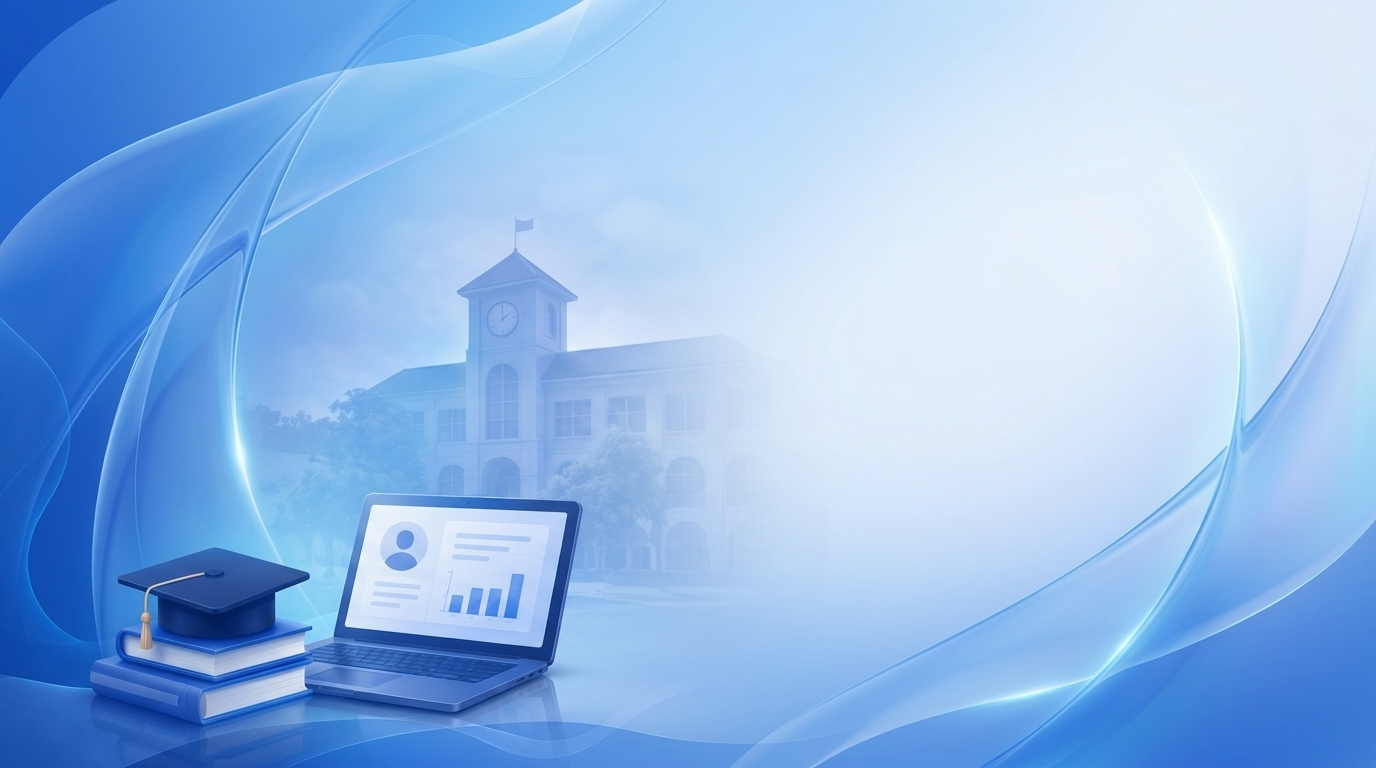
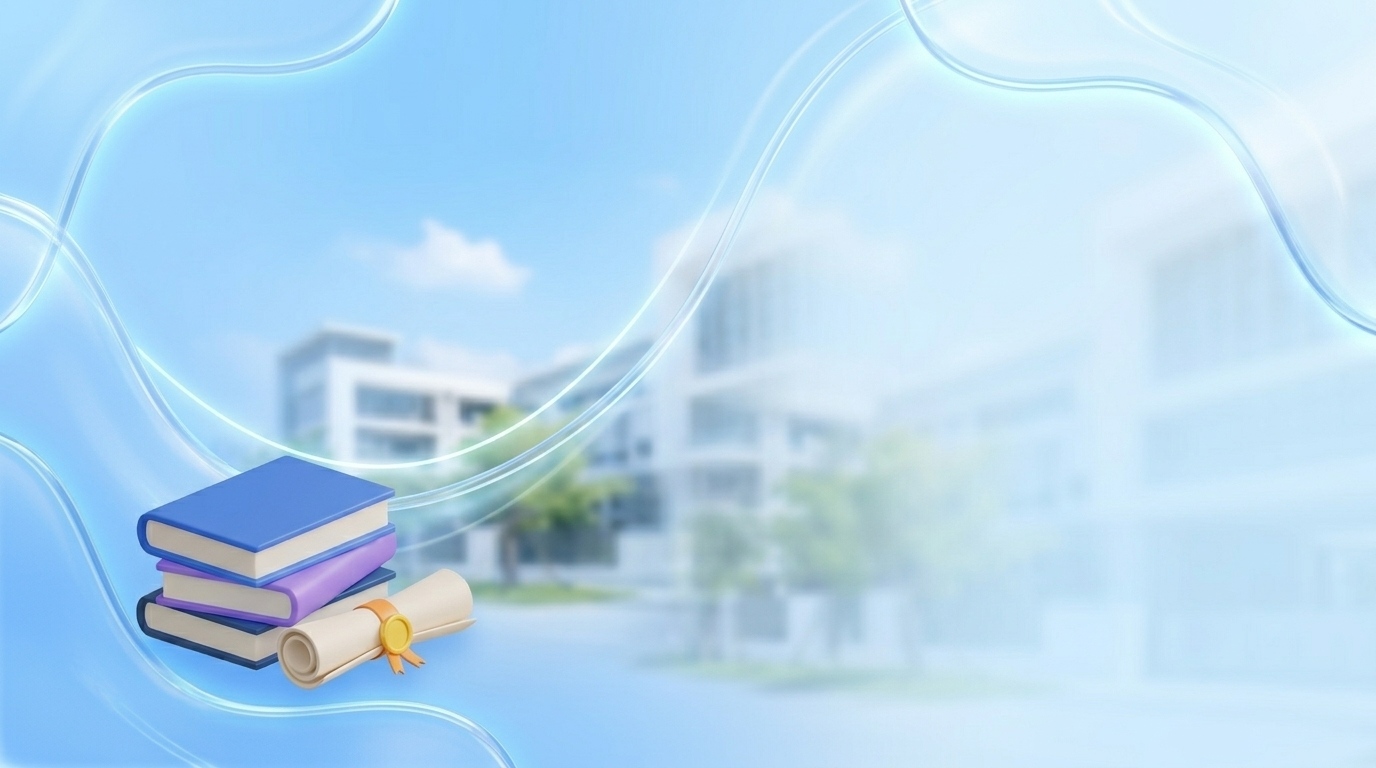
Add files via upload

diff --git a/index.html b/index.html
@@ -24,8 +24,8 @@
   <script src="https://cdn.jsdelivr.net/npm/xlsx@0.18.5/dist/xlsx.full.min.js"></script>
 
   <!-- Application Stylesheets (with cache busting) -->
-  <link rel="stylesheet" href="css/main.css?v=3.2.0">
-  <link rel="stylesheet" href="css/components.css?v=3.2.0">
+  <link rel="stylesheet" href="css/main.css?v=3.3.0">
+  <link rel="stylesheet" href="css/components.css?v=3.3.0">
 </head>
 <body>
 
@@ -38,46 +38,64 @@
   <!-- =========================================================================
        1. LOGIN VIEW — Concept B: Bright Royal Sky & Daylight Ethereal
        ========================================================================= -->
-  <div id="view-login" class="login-view-wrapper" style="display: none; background-image: url('login-bg.jpg?v=3.1.0'); background-size: cover; background-position: center center; background-repeat: no-repeat;">
+  <div id="view-login" class="login-view-wrapper" style="display: none; background-image: url('login-bg.jpg?v=3.3.0'); background-size: cover; background-position: center center; background-repeat: no-repeat;">
 
     <!-- Atmospheric Overlay & Sweep Light -->
     <div class="login-bg-mesh">
       <div class="light-beam-sweep"></div>
     </div>
 
-    <!-- Left Hero Brand Panel (Concept B) -->
+    <!-- Left Hero Brand Panel with Massive Logo Emblem -->
     <div class="login-hero-left">
       
-      <!-- Brand Titles in Deep Royal Navy -->
-      <div class="brand-title-group-concept-b">
-        <h1 class="brand-title-main">ระบบติดตามแก้ไขผลการเรียน</h1>
-        <h2 class="brand-school-name">โรงเรียนดงรักวิทยา</h2>
+      <!-- Brand Emblem & Title Header Row -->
+      <div class="brand-hero-header-row">
+        <!-- Floating School Emblem with Glowing Cyan Halo Ring (Massive Size) -->
+        <div class="brand-emblem-glow-wrap">
+          <div class="emblem-halo-ring">
+            <img src="logo.png?v=3.3.0" alt="โลโก้โรงเรียนดงรักวิทยา" class="brand-logo-emblem-b">
+          </div>
+        </div>
+
+        <!-- Brand Titles in Deep Royal Navy -->
+        <div class="brand-title-group-concept-b">
+          <h1 class="brand-title-main">ระบบติดตามแก้ไขผลการเรียน</h1>
+          <h2 class="brand-school-name">โรงเรียนดงรักวิทยา</h2>
+          <div class="brand-tagline-pill">
+            <i class="fas fa-sparkles text-amber-400"></i> ติดตามผลการเรียน แก้ไขให้ถูกต้อง เพื่ออนาคตทางการศึกษา
+          </div>
+        </div>
       </div>
 
-      <!-- Feature Badges Grid (4 Badges with Checkmarks) -->
+      <!-- Feature Badges Grid (4 Glassmorphic Cards) -->
       <div class="brand-badges-grid-concept-b">
         <div class="feature-badge-item">
-          <i class="fas fa-check-circle"></i>
-          <span>ติดตามผลการเรียน</span>
+          <div class="badge-icon-wrap"><i class="fas fa-chart-line"></i></div>
+          <div class="badge-text-wrap">
+            <strong>ติดตามผลการเรียน</strong>
+            <span>ตรวจสอบผลการเรียน สะดวก รวดเร็ว</span>
+          </div>
         </div>
         <div class="feature-badge-item">
-          <i class="fas fa-check-circle"></i>
-          <span>ยื่นขอแก้ไขผลการเรียน</span>
+          <div class="badge-icon-wrap"><i class="fas fa-edit"></i></div>
+          <div class="badge-text-wrap">
+            <strong>ยื่นขอแก้ผลการเรียน</strong>
+            <span>ยื่นคำร้อง 0 / ร / มส ออนไลน์</span>
+          </div>
         </div>
         <div class="feature-badge-item">
-          <i class="fas fa-check-circle"></i>
-          <span>แจ้งเตือนสถานะคำร้อง</span>
+          <div class="badge-icon-wrap"><i class="fas fa-bell"></i></div>
+          <div class="badge-text-wrap">
+            <strong>แจ้งเตือนสถานะ</strong>
+            <span>อัปเดตความคืบหน้าแบบเรียลไทม์</span>
+          </div>
         </div>
         <div class="feature-badge-item">
-          <i class="fas fa-check-circle"></i>
-          <span>ใช้งานสะดวก ปลอดภัย</span>
-        </div>
-      </div>
-
-      <!-- Floating School Emblem with Glowing Cyan Halo Ring -->
-      <div class="brand-emblem-glow-wrap">
-        <div class="emblem-halo-ring">
-          <img src="logo.png?v=3.1.0" alt="โลโก้โรงเรียนดงรักวิทยา" class="brand-logo-emblem-b">
+          <div class="badge-icon-wrap"><i class="fas fa-shield-alt"></i></div>
+          <div class="badge-text-wrap">
+            <strong>ความปลอดภัย 100%</strong>
+            <span>รักษาความลับข้อมูลนักเรียนทุกคน</span>
+          </div>
         </div>
       </div>
 
@@ -1170,19 +1188,19 @@
   <div id="toast-container" class="toast-container"></div>
 
   <!-- Application Scripts (Loaded with Cache Busting) -->
-  <script src="js/config.js?v=3.2.0"></script>
-  <script src="js/firebase-service.js?v=3.2.0"></script>
-  <script src="js/cloudinary-service.js?v=3.2.0"></script>
-  <script src="js/auth.js?v=3.2.0"></script>
-  <script src="js/dashboard.js?v=3.2.0"></script>
-  <script src="js/workflow.js?v=3.2.0"></script>
-  <script src="js/records.js?v=3.2.0"></script>
-  <script src="js/audit.js?v=3.2.0"></script>
-  <script src="js/teachers.js?v=3.2.0"></script>
-  <script src="js/students.js?v=3.2.0"></script>
-  <script src="js/users.js?v=3.2.0"></script>
-  <script src="js/export-engine.js?v=3.2.0"></script>
-  <script src="js/app.js?v=3.2.0"></script>
+  <script src="js/config.js?v=3.3.0"></script>
+  <script src="js/firebase-service.js?v=3.3.0"></script>
+  <script src="js/cloudinary-service.js?v=3.3.0"></script>
+  <script src="js/auth.js?v=3.3.0"></script>
+  <script src="js/dashboard.js?v=3.3.0"></script>
+  <script src="js/workflow.js?v=3.3.0"></script>
+  <script src="js/records.js?v=3.3.0"></script>
+  <script src="js/audit.js?v=3.3.0"></script>
+  <script src="js/teachers.js?v=3.3.0"></script>
+  <script src="js/students.js?v=3.3.0"></script>
+  <script src="js/users.js?v=3.3.0"></script>
+  <script src="js/export-engine.js?v=3.3.0"></script>
+  <script src="js/app.js?v=3.3.0"></script>
 
   <script>
     // Tab role switcher helper in login view

diff --git a/css/main.css b/css/main.css
@@ -619,107 +619,163 @@ a:hover { color: var(--primary-dark); }
   100% { left: 220%; opacity: 0; }
 }
 
-/* --- Left Hero Brand Panel (Concept B) --- */
+/* --- Left Hero Brand Panel (Massive Logo & Academic Elegance) --- */
 .login-hero-left {
   flex: 1;
-  max-width: 480px;
+  max-width: 580px;
   position: relative;
   z-index: 10;
-  padding-right: 20px;
-  margin-top: -30px; /* Aligns neatly above 3D books & diploma */
+  padding-right: 30px;
+  margin-top: -20px;
+}
+
+.brand-hero-header-row {
+  display: flex;
+  align-items: center;
+  gap: 22px;
+  margin-bottom: 16px;
+}
+
+/* Massive Glowing 3D Emblem Halo Ring */
+.brand-emblem-glow-wrap {
+  display: flex;
+  align-items: center;
+  justify-content: center;
+  flex-shrink: 0;
+}
+
+.emblem-halo-ring {
+  position: relative;
+  width: 145px;
+  height: 145px;
+  border-radius: 50%;
+  display: flex;
+  align-items: center;
+  justify-content: center;
+  background: radial-gradient(circle, rgba(255, 255, 255, 0.98) 0%, rgba(224, 242, 254, 0.85) 60%, rgba(56, 189, 248, 0.35) 100%);
+  box-shadow: 
+    0 0 45px rgba(56, 189, 248, 0.6),
+    0 12px 28px rgba(14, 60, 140, 0.18),
+    inset 0 0 20px rgba(255, 255, 255, 1);
+  border: 3px solid rgba(255, 255, 255, 1);
+  animation: floatEmblem3D 4s ease-in-out infinite alternate;
+}
+
+@keyframes floatEmblem3D {
+  0% { transform: translateY(0) scale(1); }
+  100% { transform: translateY(-6px) scale(1.02); }
+}
+
+.brand-logo-emblem-b {
+  width: 120px;
+  height: 120px;
+  object-fit: contain;
+  filter: drop-shadow(0 6px 14px rgba(0, 0, 0, 0.15));
 }
 
 .brand-title-group-concept-b {
-  margin-bottom: 12px;
+  display: flex;
+  flex-direction: column;
 }
 
 .brand-title-main {
-  font-size: 26px;
+  font-size: 28px;
   font-weight: 800;
-  color: #0b2565;
+  color: #082366;
   letter-spacing: -0.5px;
   margin: 0;
   line-height: 1.2;
-  text-shadow: 0 1px 4px rgba(255, 255, 255, 0.9);
+  text-shadow: 0 2px 10px rgba(255, 255, 255, 0.95);
 }
 
 .brand-school-name {
-  font-size: 22px;
+  font-size: 23px;
   font-weight: 800;
   color: #1d4ed8;
-  margin: 4px 0 0 0;
+  margin: 4px 0 6px 0;
   letter-spacing: -0.3px;
-  text-shadow: 0 1px 3px rgba(255, 255, 255, 0.8);
+  text-shadow: 0 1px 4px rgba(255, 255, 255, 0.85);
 }
 
-/* 4 Feature Badges Grid */
+.brand-tagline-pill {
+  display: inline-flex;
+  align-items: center;
+  gap: 6px;
+  font-size: 12px;
+  font-weight: 600;
+  color: #1e3a8a;
+  background: rgba(255, 255, 255, 0.82);
+  backdrop-filter: blur(8px);
+  padding: 4px 12px;
+  border-radius: 20px;
+  border: 1px solid rgba(255, 255, 255, 0.95);
+  box-shadow: 0 2px 8px rgba(37, 99, 235, 0.08);
+}
+
+/* 4 Feature Glass Badges (2x2 Grid) */
 .brand-badges-grid-concept-b {
-  display: flex;
-  flex-wrap: wrap;
-  gap: 8px;
-  margin: 14px 0 18px 0;
-  max-width: 440px;
+  display: grid;
+  grid-template-columns: 1fr 1fr;
+  gap: 10px;
+  margin-top: 12px;
+  max-width: 520px;
 }
 
 .feature-badge-item {
   display: flex;
   align-items: center;
-  gap: 7px;
-  padding: 6px 14px;
-  border-radius: 20px;
-  font-size: 12.5px;
-  font-weight: 700;
-  color: #1e3a8a;
-  background: rgba(255, 255, 255, 0.88);
-  backdrop-filter: blur(12px);
-  -webkit-backdrop-filter: blur(12px);
+  gap: 10px;
+  padding: 9px 14px;
+  border-radius: 14px;
+  background: rgba(255, 255, 255, 0.84);
+  backdrop-filter: blur(14px);
+  -webkit-backdrop-filter: blur(14px);
   border: 1.5px solid rgba(255, 255, 255, 0.95);
-  box-shadow: 0 3px 10px rgba(37, 99, 235, 0.08);
-  transition: all 0.2s ease;
+  box-shadow: 0 4px 14px rgba(15, 60, 140, 0.08);
+  transition: all 0.22s ease;
 }
 
 .feature-badge-item:hover {
   transform: translateY(-2px);
-  background: #ffffff;
-  box-shadow: 0 6px 16px rgba(37, 99, 235, 0.16);
+  background: rgba(255, 255, 255, 0.96);
+  border-color: #ffffff;
+  box-shadow: 0 8px 20px rgba(37, 99, 235, 0.16);
 }
 
-.feature-badge-item i {
-  color: #2563eb;
-  font-size: 14px;
-}
-
-/* Floating School Emblem with Glowing Cyan Halo Ring */
-.brand-emblem-glow-wrap {
-  display: flex;
-  align-items: center;
-  margin-top: 8px;
-}
-
-.emblem-halo-ring {
-  position: relative;
-  width: 140px;
-  height: 140px;
-  border-radius: 50%;
+.badge-icon-wrap {
+  width: 32px;
+  height: 32px;
+  border-radius: 8px;
+  background: linear-gradient(135deg, #0284c7 0%, #2563eb 100%);
+  color: #ffffff;
   display: flex;
   align-items: center;
   justify-content: center;
-  background: radial-gradient(circle, rgba(255, 255, 255, 0.95) 0%, rgba(186, 230, 253, 0.6) 65%, rgba(56, 189, 248, 0.2) 100%);
-  box-shadow: 0 0 35px rgba(56, 189, 248, 0.45), inset 0 0 15px rgba(255, 255, 255, 0.9);
-  border: 2.5px solid rgba(255, 255, 255, 0.95);
-  animation: floatSubtle 4s ease-in-out infinite alternate;
+  font-size: 13px;
+  flex-shrink: 0;
+  box-shadow: 0 3px 8px rgba(37, 99, 235, 0.3);
 }
 
-@keyframes floatSubtle {
-  0% { transform: translateY(0); }
-  100% { transform: translateY(-5px); }
+.badge-text-wrap {
+  display: flex;
+  flex-direction: column;
+  min-width: 0;
 }
 
-.brand-logo-emblem-b {
-  width: 100px;
-  height: 100px;
-  object-fit: contain;
-  filter: drop-shadow(0 4px 10px rgba(0, 0, 0, 0.12));
+.badge-text-wrap strong {
+  font-size: 12.5px;
+  font-weight: 700;
+  color: #0f2b7a;
+  line-height: 1.2;
+}
+
+.badge-text-wrap span {
+  font-size: 11px;
+  color: #4b6b94;
+  margin-top: 2px;
+  white-space: nowrap;
+  overflow: hidden;
+  text-overflow: ellipsis;
 }
 
 /* --- Right Glassmorphism Card (Concept B Daylight Ethereal) --- */
